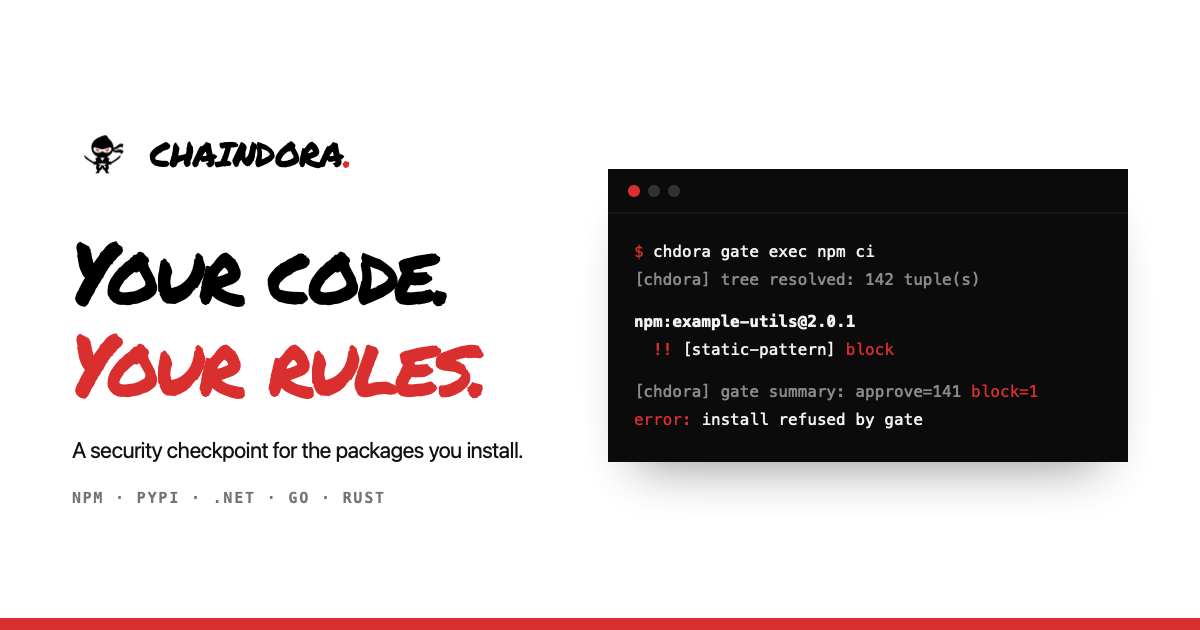
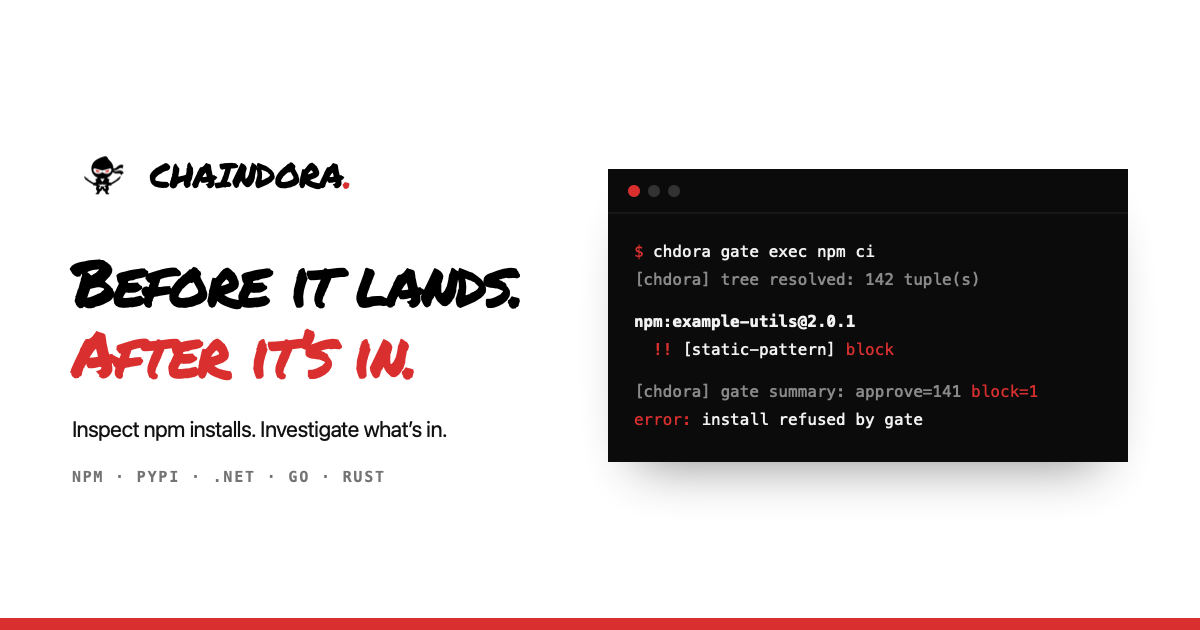
website: explain machine, project and fleet scope
"Your code. Your rules." did not say what Chaindora protects or
where it runs, and visitors could read the gate as device-wide
enforcement. The gate is set up once per user via PATH shims, takes
its policy from each project's chaindora.yml, and fleet mode only
aggregates findings.

- Headline becomes "Before it lands. After it's in." (prevention and
  detection), carried into the page title, social card and README.
- New "Where it runs" section: on your machine, in each project and
  across your fleet, each with its commands and an explicit limit
  (shims are per user and bypassable; only frozen npm restores
  install; fleet mode does not enforce the gate remotely).
- Rename the old section 01 heading so it no longer repeats the
  headline, and add the section to the nav.

Changed region(s): [[0.0617, 0.3921, 0.4317, 0.6333], [0.0617, 0.6635, 0.4317, 0.8143], [0.0617, 0.2111, 0.3083, 0.3016]]

diff --git a/website/src/app/pages/home/home.component.html b/website/src/app/pages/home/home.component.html
@@ -4,12 +4,12 @@
       <p class="eyebrow"><span class="status-dot"></span> Open-source supply-chain security</p>
       <a class="release-badge" [href]="github + '/blob/main/CHANGELOG.md'">What’s new in v{{ version }} <span aria-hidden="true">↗</span></a>
     </div>
-    <h1 id="hero-title">Your code.<br><span>Your rules.</span></h1>
-    <p class="hero-description">A security checkpoint for the packages you install.<br class="desktop-break"> A closer look at the ones already inside.</p>
-    <p class="hero-detail">Chaindora brings prevention and detection to npm, PyPI, .NET, Go, and Rust. One CLI. A deliberately focused scope.</p>
+    <h1 id="hero-title">Before it lands.<br><span>After it’s in.</span></h1>
+    <p class="hero-description">A checkpoint on your machine for npm installs.<br class="desktop-break"> A closer look at what’s already in your projects.</p>
+    <p class="hero-detail">Detection covers npm, PyPI, .NET, Go, and Rust. One CLI, set up once per machine, with rules that live in each project.</p>
     <div class="hero-actions">
       <a class="button button-red" routerLink="/" fragment="install">Get Chaindora <span aria-hidden="true">↓</span></a>
-      <a class="text-link" routerLink="/" fragment="protection">See how it works <span aria-hidden="true">↓</span></a>
+      <a class="text-link" routerLink="/" fragment="where">Where it runs <span aria-hidden="true">↓</span></a>
     </div>
     <dl class="hero-scope">
       <div><dt>Install gate</dt><dd>Frozen npm restores on macOS and Linux</dd></div>
@@ -56,6 +56,36 @@
   </figure>
 </section>
 
+<section class="where-section container" id="where" aria-labelledby="where-title">
+  <div class="section-heading"><p class="eyebrow">01 / Where it runs</p><div><h2 id="where-title">Once per machine.<br>Rules per project.</h2><p>Chaindora works at three levels. Each one says what it covers, and what it doesn’t.</p></div></div>
+  <div class="where-grid">
+    <article class="where-card">
+      <span class="where-scope">On your machine</span>
+      <h3>Set up once per user</h3>
+      <p><code>chdora gate install</code> adds shims to <code>~/.chaindora/bin</code> and a PATH block to your shell. From then on, <code>npm ci</code> in any project goes through the gate first.</p>
+      <p><code>chdora forensics</code> checks the machine itself for stored credentials, shell-startup changes and unexpected persistence. <code>chdora audit</code> scans every project under your home folder.</p>
+      <div class="where-limit"><span>Limit</span>Covers your user account, in shells that load the PATH block. IDEs, other users and full-path calls skip the shims.</div>
+      <code class="where-cmd">chdora gate install</code>
+    </article>
+    <article class="where-card">
+      <span class="where-scope">In each project</span>
+      <h3>Rules travel with the repo</h3>
+      <p>Commit a <code>chaindora.yml</code> and the gate applies the same policy for anyone running Chaindora in that repo: cooldown, allow and deny lists, and how strict to be.</p>
+      <p><code>chdora scan .</code> inspects dependencies in all five ecosystems. <code>chdora ci</code> brings the same checks into your pipeline with JSON and SARIF.</p>
+      <div class="where-limit"><span>Limit</span>The gate installs only frozen npm restores on macOS and Linux. Other install commands are refused.</div>
+      <code class="where-cmd">chdora scan .</code>
+    </article>
+    <article class="where-card">
+      <span class="where-scope">Across your fleet <em>Opt-in</em></span>
+      <h3>One view of every machine</h3>
+      <p>Run your own <code>chdora server</code>, enroll each machine with <code>chdora agent</code>, and push scan findings to one dashboard.</p>
+      <p>Nothing leaves a machine unless you set this up. There is no telemetry.</p>
+      <div class="where-limit"><span>Limit</span>Collects findings. It doesn’t enforce the gate on other machines.</div>
+      <code class="where-cmd">chdora agent enroll --server URL</code>
+    </article>
+  </div>
+</section>
+
 <section class="incident-strip" aria-labelledby="incident-strip-label">
   <div class="container incident-strip-inner">
     <p class="strip-label" id="incident-strip-label">Checks for the attacks <br>you’ve heard of</p>
@@ -68,7 +98,7 @@
 
 <section class="protection-section" id="protection" aria-labelledby="protection-title">
   <div class="container">
-    <div class="section-heading"><p class="eyebrow">01 / Two sides of protection</p><div><h2 id="protection-title">Before it lands.<br>After it’s installed.</h2><p>Prevention and detection share the same evidence, from one binary.</p></div></div>
+    <div class="section-heading"><p class="eyebrow">02 / Two sides of protection</p><div><h2 id="protection-title">Two jobs.<br>One set of evidence.</h2><p>The gate and the scanner share the same checks, from one binary.</p></div></div>
     <div class="protection-grid">
       <article class="protection-card" id="prevention"><span class="card-index">01 — PREVENT</span><h3>Make installs<br>answer to your policy.</h3><p>Restore a reviewed npm lockfile from verified artifacts. Check policy, install offline with scripts disabled, then verify staged files.</p><ul><li>Evaluate direct and transitive dependencies</li><li>Refuse incomplete checks under strict policy</li><li>Recheck approvals against the current rules</li></ul><code>chdora gate exec npm ci</code></article>
       <article class="protection-card" id="detection"><span class="card-index">02 — DETECT</span><h3>Find the signals<br>worth investigating.</h3><p>Audit existing projects for known malicious packages, suspicious changes, installed npm file changes and signs of host compromise.</p><ul><li>Check inventory against OSV and incident packs</li><li>Look for credential-collection patterns</li><li>Bring findings into CI with JSON and SARIF</li></ul><code>chdora scan .</code></article>
@@ -77,7 +107,7 @@
 </section>
 
 <section class="coverage-section container" id="ecosystems" aria-labelledby="coverage-title">
-  <div class="section-heading"><p class="eyebrow">02 / Depth over breadth</p><div><h2 id="coverage-title">Your ecosystem.<br>Your package manager.</h2><p>Five dependency ecosystems, including the alternative tools you use. Shared CI and host checks stay in the picture.</p></div></div>
+  <div class="section-heading"><p class="eyebrow">03 / Depth over breadth</p><div><h2 id="coverage-title">Your ecosystem.<br>Your package manager.</h2><p>Five dependency ecosystems, including the alternative tools you use. Shared CI and host checks stay in the picture.</p></div></div>
   <div class="ecosystem-tabs" role="tablist" aria-label="Dependency ecosystems"><button *ngFor="let eco of ecosystems; index as i" type="button" role="tab" [id]="'ecosystem-tab-' + i" [attr.aria-selected]="selected === i" aria-controls="ecosystem-panel" [attr.tabindex]="selected === i ? 0 : -1" [class.selected]="selected === i" (click)="selectEcosystem(i)" (keydown)="onTabKey($event, i)"><span>0{{ i + 1 }}</span>{{ eco.name }}<span class="tab-arrow" aria-hidden="true">↗</span></button></div>
   <div class="ecosystem-panel" id="ecosystem-panel" role="tabpanel" tabindex="0" [attr.aria-labelledby]="'ecosystem-tab-' + selected">
     <div class="ecosystem-summary"><span class="small-label">{{ ecosystem.registry }}</span><h3>{{ ecosystem.name }}</h3><p class="manager-list">{{ ecosystem.managers }}</p><p class="coverage-note">{{ ecosystem.note }}</p></div>
@@ -87,11 +117,11 @@
 </section>
 
 <section class="principles-section">
-  <div class="container principles-grid"><div><p class="eyebrow">03 / Security you can inspect</p><h2>No black box.<br>No blanket promises.</h2><a class="text-link" [href]="github">Read the source <span aria-hidden="true">↗</span></a></div><div class="principles"><article><span>01</span><div><h3>The evidence comes with it.</h3><p>Named checks, package identities and reviewable findings. Suspicious behavior is a signal to investigate, not proof of compromise.</p></div></article><article><span>02</span><div><h3>Your workstation stays yours.</h3><p>A single Go binary with no telemetry. Registry-backed checks make network requests; fleet reporting is a separate, opt-in workflow.</p></div></article><article><span>03</span><div><h3>The boundary is explicit.</h3><p>The gate is not a runtime sandbox. Only frozen public-registry npm restores are accepted; other install routes refuse. Byte-level installed-file checks currently cover npm.</p><a [href]="github + '/blob/main/docs/threat-model.md'">Read the threat model ↗</a></div></article></div></div>
+  <div class="container principles-grid"><div><p class="eyebrow">04 / Security you can inspect</p><h2>No black box.<br>No blanket promises.</h2><a class="text-link" [href]="github">Read the source <span aria-hidden="true">↗</span></a></div><div class="principles"><article><span>01</span><div><h3>The evidence comes with it.</h3><p>Named checks, package identities and reviewable findings. Suspicious behavior is a signal to investigate, not proof of compromise.</p></div></article><article><span>02</span><div><h3>Your workstation stays yours.</h3><p>A single Go binary with no telemetry. Registry-backed checks make network requests; fleet reporting is a separate, opt-in workflow.</p></div></article><article><span>03</span><div><h3>The boundary is explicit.</h3><p>The gate is not a runtime sandbox. Only frozen public-registry npm restores are accepted; other install routes refuse. Byte-level installed-file checks currently cover npm.</p><a [href]="github + '/blob/main/docs/threat-model.md'">Read the threat model ↗</a></div></article></div></div>
 </section>
 
 <section class="install-section container" id="install" aria-labelledby="install-title">
-  <div class="install-intro"><p class="eyebrow">04 / Put it to work</p><h2 id="install-title">Start with<br>a closer look.</h2><p>Download a release, verify its checksum, and run a scan in your project. Enable the install gate when you’re ready.</p><a class="text-link" [href]="github + '/blob/main/docs/installation.md'">Step-by-step install guide <span aria-hidden="true">↗</span></a></div>
+  <div class="install-intro"><p class="eyebrow">05 / Put it to work</p><h2 id="install-title">Start with<br>a closer look.</h2><p>Download a release, verify its checksum, and run a scan in your project. Enable the install gate when you’re ready.</p><a class="text-link" [href]="github + '/blob/main/docs/installation.md'">Step-by-step install guide <span aria-hidden="true">↗</span></a></div>
   <div class="install-steps"><article><div class="step-title"><span>01</span><h3>Download a release</h3><span class="step-detail">v{{ version }}</span></div><p class="step-lead">Pick the archive for your platform, compare its SHA-256 with <code>chaindora_{{ version }}_checksums.txt</code>, then put <code>chdora</code> on your PATH.</p><div class="download-row"><a class="button button-red" [href]="releaseUrl">Download v{{ version }} <span aria-hidden="true">↗</span></a><span class="download-note">macOS · Linux · Windows</span></div><details class="alt-install"><summary>Have Go 1.22+? Install from source</summary><div class="command-row"><code>{{ sourceInstall }}</code><button type="button" class="copy-button" (click)="copy(sourceInstall, 'install')">{{ copied === 'install' ? 'Copied ✓' : 'Copy' }}</button></div><p>Add your Go binary directory to PATH.</p></details></article><article><div class="step-title"><span>02</span><h3>Inspect a project</h3></div><div class="command-row"><code>chdora update &amp;&amp; chdora scan .</code><button type="button" class="copy-button" (click)="copy('chdora update && chdora scan .', 'scan')">{{ copied === 'scan' ? 'Copied ✓' : 'Copy' }}</button></div><p>Fetch the incident pack, then scan from your project directory. Use <code>--offline</code> for local checks after the pack is available.</p></article><article><div class="step-title"><span>03</span><h3>Add the install checkpoint</h3></div><div class="command-row"><code>chdora gate install</code><button type="button" class="copy-button" (click)="copy('chdora gate install', 'gate')">{{ copied === 'gate' ? 'Copied ✓' : 'Copy' }}</button></div><p>macOS/Linux only. Restore a reviewed npm lockfile with verified artifacts and scripts disabled. Other install routes refuse.</p></article></div>
 </section>
 <div class="copy-status container" role="status" aria-live="polite">{{ copyError || (copied ? 'Command copied to clipboard.' : '') }}</div>

diff --git a/website/src/app/pages/home/home.component.scss b/website/src/app/pages/home/home.component.scss
@@ -48,6 +48,21 @@ h1 span { color: var(--cd-red); }
 @keyframes type { to { width: calc(var(--n) * 1ch); } }
 @keyframes term-in { from { opacity: 0; } to { opacity: 1; } }
 @keyframes blink { 50% { opacity: 0; } }
+.where-section { padding-block: 90px 96px; border-top: 1px solid var(--cd-line); }
+.where-section .section-heading > .eyebrow { color: var(--cd-red); }
+.where-grid { display: grid; grid-template-columns: repeat(3, 1fr); border: 1px solid var(--cd-line); }
+.where-card { display: flex; flex-direction: column; gap: 14px; padding: 32px 30px 28px; min-width: 0; }
+.where-card + .where-card { border-left: 1px solid var(--cd-line); }
+.where-scope { display: flex; align-items: center; gap: 10px; font: 600 11px var(--cd-mono); letter-spacing: .1em; text-transform: uppercase; color: var(--cd-red); }
+.where-scope { height: 18px; }
+.where-scope em { font-style: normal; font-size: 10px; line-height: 1; color: var(--cd-muted); border: 1px solid var(--cd-line); padding: 3px 6px; letter-spacing: .06em; }
+.where-card h3 { font-size: 24px; font-weight: 650; margin-bottom: 4px; }
+.where-card > p { font-size: 14px; color: var(--cd-muted); line-height: 1.7; }
+.where-card > p code { font-size: 12.5px; color: var(--cd-ink); overflow-wrap: anywhere; }
+.where-limit { margin-top: auto; background: var(--cd-wash); padding: 13px 15px; font-size: 13px; line-height: 1.6; }
+.where-limit > span { display: block; font: 600 11px var(--cd-mono); letter-spacing: .1em; text-transform: uppercase; margin-bottom: 4px; }
+.where-cmd { display: block; border-top: 1px solid var(--cd-line); padding-top: 16px; margin-top: 6px; font-size: 12px; overflow-wrap: anywhere; }
+.where-cmd::before { content: '$ '; color: var(--cd-red); }
 .incident-strip { border-block: 1px solid var(--cd-line); }
 .incident-strip-inner { display: flex; align-items: center; gap: 36px; min-height: 116px; padding-block: 22px; }
 .strip-label { font: 11px/1.7 var(--cd-mono); letter-spacing: .04em; color: var(--cd-muted); text-transform: uppercase; flex-shrink: 0; }
@@ -92,7 +107,7 @@ h1 span { color: var(--cd-red); }
 .copy-status { font-size: 12px; color: var(--cd-red); min-height: 22px; padding-bottom: 18px; }
 .closing-band { background: var(--cd-red); color: #fff; }.closing-band .container { padding-block: 43px; display: flex; justify-content: space-between; align-items: center; gap: 30px; }.closing-band p { font-size: 35px; font-weight: 450; line-height: 1.14; letter-spacing: -.05em; }.closing-band strong { font-weight: 750; }.closing-band a { font-size: 12px; color: rgba(255,255,255,.7); line-height: 2; }.closing-band a span { color: #fff; font-weight: 600; }
 @media(min-width: 1450px) { .hero { padding-block: 108px; } }
-@media(max-width: 1100px) { .hero { gap: 34px; } .section-heading { grid-template-columns: 1fr; gap: 25px; }.section-heading > div > p { width: 320px; }.incident-strip-inner { flex-wrap: wrap; row-gap: 18px; }.strip-label { flex-basis: 100%; }.strip-label br { display: none; }.incident-list { order: 1; flex-basis: 100%; }.strip-more { order: 2; }.principles-grid,.install-section { gap: 55px; }.ecosystem-tabs button { gap: 10px; padding-inline: 15px; } }
-@media(max-width: 800px) { .hero { grid-template-columns: 1fr; padding-block: 54px; gap: 40px; }.hero-copy { max-width: 580px; } h1 { font-size: 70px; }.hero-detail { max-width: 470px; }.hero-terminal { width: 100%; max-width: 620px; }.incident-list { flex-wrap: wrap; justify-content: start; gap: 18px 32px; }.term-body { min-height: 0; }.section-heading > div { flex-direction: column; align-items: start; gap: 23px; }.section-heading > div > p { max-width: 440px; width: auto; }.protection-section { padding-block: 62px; }.protection-card { padding: 28px 24px; }.protection-card h3 { font-size: 27px; }.protection-card > p { font-size: 13px; }.protection-card ul { font-size: 11px; }.coverage-section { padding-block: 63px; }.ecosystem-tabs button { font-size: 17px; padding: 17px 10px; }.ecosystem-tabs button > span:first-child { display: none; }.ecosystem-tabs .tab-arrow { font-size: 14px; }.ecosystem-panel { grid-template-columns: 1fr; gap: 29px; padding: 28px; min-height: 410px; }.ecosystem-summary h3 { font-size: 42px; }.coverage-note { max-width: 540px; }.principles-section { padding-block: 60px; }.principles-grid, .install-section { grid-template-columns: 1fr; gap: 40px; }.install-section { padding-top: 60px; }.install-intro h2 { font-size: 48px; }.install-intro > p:not(.eyebrow) { max-width: 480px; }.principles-grid h2 { font-size: 38px; } }
+@media(max-width: 1100px) { .hero { gap: 34px; } .section-heading { grid-template-columns: 1fr; gap: 25px; }.section-heading > div > p { width: 320px; }.incident-strip-inner { flex-wrap: wrap; row-gap: 18px; }.strip-label { flex-basis: 100%; }.strip-label br { display: none; }.incident-list { order: 1; flex-basis: 100%; }.strip-more { order: 2; }.principles-grid,.install-section { gap: 55px; }.where-grid { grid-template-columns: 1fr; }.where-card + .where-card { border-left: 0; border-top: 1px solid var(--cd-line); }.ecosystem-tabs button { gap: 10px; padding-inline: 15px; } }
+@media(max-width: 800px) { .hero { grid-template-columns: 1fr; padding-block: 54px; gap: 40px; }.hero-copy { max-width: 580px; } h1 { font-size: 70px; }.hero-detail { max-width: 470px; }.hero-terminal { width: 100%; max-width: 620px; }.incident-list { flex-wrap: wrap; justify-content: start; gap: 18px 32px; }.term-body { min-height: 0; }.section-heading > div { flex-direction: column; align-items: start; gap: 23px; }.section-heading > div > p { max-width: 440px; width: auto; }.protection-section { padding-block: 62px; }.where-section { padding-block: 60px; }.where-card { padding: 26px 22px; }.protection-card { padding: 28px 24px; }.protection-card h3 { font-size: 27px; }.protection-card > p { font-size: 13px; }.protection-card ul { font-size: 11px; }.coverage-section { padding-block: 63px; }.ecosystem-tabs button { font-size: 17px; padding: 17px 10px; }.ecosystem-tabs button > span:first-child { display: none; }.ecosystem-tabs .tab-arrow { font-size: 14px; }.ecosystem-panel { grid-template-columns: 1fr; gap: 29px; padding: 28px; min-height: 410px; }.ecosystem-summary h3 { font-size: 42px; }.coverage-note { max-width: 540px; }.principles-section { padding-block: 60px; }.principles-grid, .install-section { grid-template-columns: 1fr; gap: 40px; }.install-section { padding-top: 60px; }.install-intro h2 { font-size: 48px; }.install-intro > p:not(.eyebrow) { max-width: 480px; }.principles-grid h2 { font-size: 38px; } }
 @media(max-width: 520px) { h1 { font-size: clamp(46px, 12vw, 62px); }.hero .eyebrow { font-size: 10px; }.hero-description { font-size: 18px; }.desktop-break { display: none; }.hero-actions { gap: 20px; }.hero-actions .text-link { font-size: 12px; }.hero-meta { font-size: 10px; }.term-bar { gap: 10px; }.term-path { display: none; }.term-bar { grid-template-columns: auto 1fr; }.term-tabs { justify-self: end; }.incident-list { display: grid; grid-template-columns: 1fr 1fr; }.term-body { padding: 20px 16px 22px; font-size: 11px; }.term-bar, .term-foot { padding-inline: 16px; }.protection-grid { grid-template-columns: 1fr; }.protection-card + .protection-card { border-left: 0; border-top: 1px solid rgba(255,255,255,.22); }.protection-card h3 { font-size: 31px; }.protection-card ul { font-size: 12px; }.ecosystem-tabs button { font-size: 15px; padding: 16px 8px; justify-content: center; }.ecosystem-tabs .tab-arrow { display: none; }.ecosystem-panel { padding: 25px 19px; min-height: 440px; }.command-row { gap: 9px; padding: 13px 10px; }.command-row code { font-size: 10px; }.coverage-footnote a { margin-left: 0; display: inline; }.closing-band .container { align-items: start; flex-direction: column; gap: 25px; }.closing-band p { font-size: 32px; }.principles-grid h2 { font-size: 35px; } }
 @media(prefers-reduced-motion: reduce) { .term-line, .term-line.term-idle, .term-verdict, .typed, .cursor { animation: none; opacity: 1; } .typed { width: auto; } }

diff --git a/website/src/index.html b/website/src/index.html
@@ -2,19 +2,19 @@
 <html lang="en">
 <head>
   <meta charset="utf-8">
-  <title>Chaindora — Your code. Your rules.</title>
+  <title>Chaindora — Before it lands. After it’s in.</title>
   <base href="/">
   <meta name="viewport" content="width=device-width, initial-scale=1, viewport-fit=cover">
   <meta name="description" content="Open-source dependency security for npm, PyPI, .NET, Go, and Rust. Check risky installs and investigate existing projects with one CLI.">
   <meta name="theme-color" content="#ffffff">
-  <meta property="og:title" content="Chaindora — Your code. Your rules.">
+  <meta property="og:title" content="Chaindora — Before it lands. After it’s in.">
   <meta property="og:description" content="Open-source dependency security for npm, PyPI, .NET, Go, and Rust. Check risky installs and investigate existing projects with one CLI.">
   <meta property="og:type" content="website">
   <meta property="og:url" content="https://chaindora.dev">
   <meta property="og:image" content="https://chaindora.dev/assets/og-image.png">
   <meta property="og:image:width" content="1200">
   <meta property="og:image:height" content="630">
-  <meta property="og:image:alt" content="Chaindora: Your code. Your rules. A terminal shows chdora refusing an npm install.">
+  <meta property="og:image:alt" content="Chaindora: Before it lands. After it’s in. A terminal shows chdora refusing an npm install.">
   <meta name="twitter:card" content="summary_large_image">
   <meta name="twitter:image" content="https://chaindora.dev/assets/og-image.png">
   <link rel="canonical" href="https://chaindora.dev/">

diff --git a/website/src/app/components/header.component.ts b/website/src/app/components/header.component.ts
@@ -8,7 +8,7 @@ import { RouterLink } from '@angular/router';
       <a routerLink="/" class="brand" aria-label="Chaindora home"><img src="assets/logo-symbol.png" alt="" width="48" height="46"><span>chaindora<span class="brand-period">.</span></span></a>
       <button type="button" class="menu-button" [attr.aria-expanded]="open" aria-controls="site-navigation" (click)="open = !open">{{ open ? 'Close −' : 'Menu +' }}</button>
       <nav id="site-navigation" aria-label="Main navigation" [class.open]="open">
-        <a routerLink="/" fragment="protection" (click)="open = false">Protection</a><a routerLink="/" fragment="ecosystems" (click)="open = false">Ecosystems</a>
+        <a routerLink="/" fragment="where" (click)="open = false">Where it runs</a><a routerLink="/" fragment="protection" (click)="open = false">Protection</a><a routerLink="/" fragment="ecosystems" (click)="open = false">Ecosystems</a>
         <a href="https://github.com/alessandro-bitetto/chaindora/blob/main/README.md">Docs ↗</a>
         <a routerLink="/" fragment="install" class="nav-cta" (click)="open = false">Get Chaindora <span aria-hidden="true">↓</span></a>
       </nav>

diff --git a/website/src/app/app.routes.ts b/website/src/app/app.routes.ts
@@ -2,6 +2,6 @@ import { Routes } from '@angular/router';
 import { HomeComponent } from './pages/home/home.component';
 
 export const routes: Routes = [
-  { path: '', component: HomeComponent, title: 'Chaindora — Your code. Your rules.' },
+  { path: '', component: HomeComponent, title: 'Chaindora — Before it lands. After it’s in.' },
   { path: '**', redirectTo: '' },
 ];

diff --git a/README.md b/README.md
@@ -4,7 +4,7 @@
 
 Latest version: **0.0.4**, including the audit hardening and recovery fixes.
 
-**Your code. Your rules.** Supply-chain detection for npm, PyPI, .NET/NuGet,
+**Before it lands. After it’s in.** Supply-chain detection for npm, PyPI, .NET/NuGet,
 Go modules and Rust/crates.io, plus verified frozen npm installs. The CLI is `chdora`: one Go binary for macOS, Linux, and Windows.
 
 [Website](https://chaindora.dev) · [Documentation](docs/README.md)
